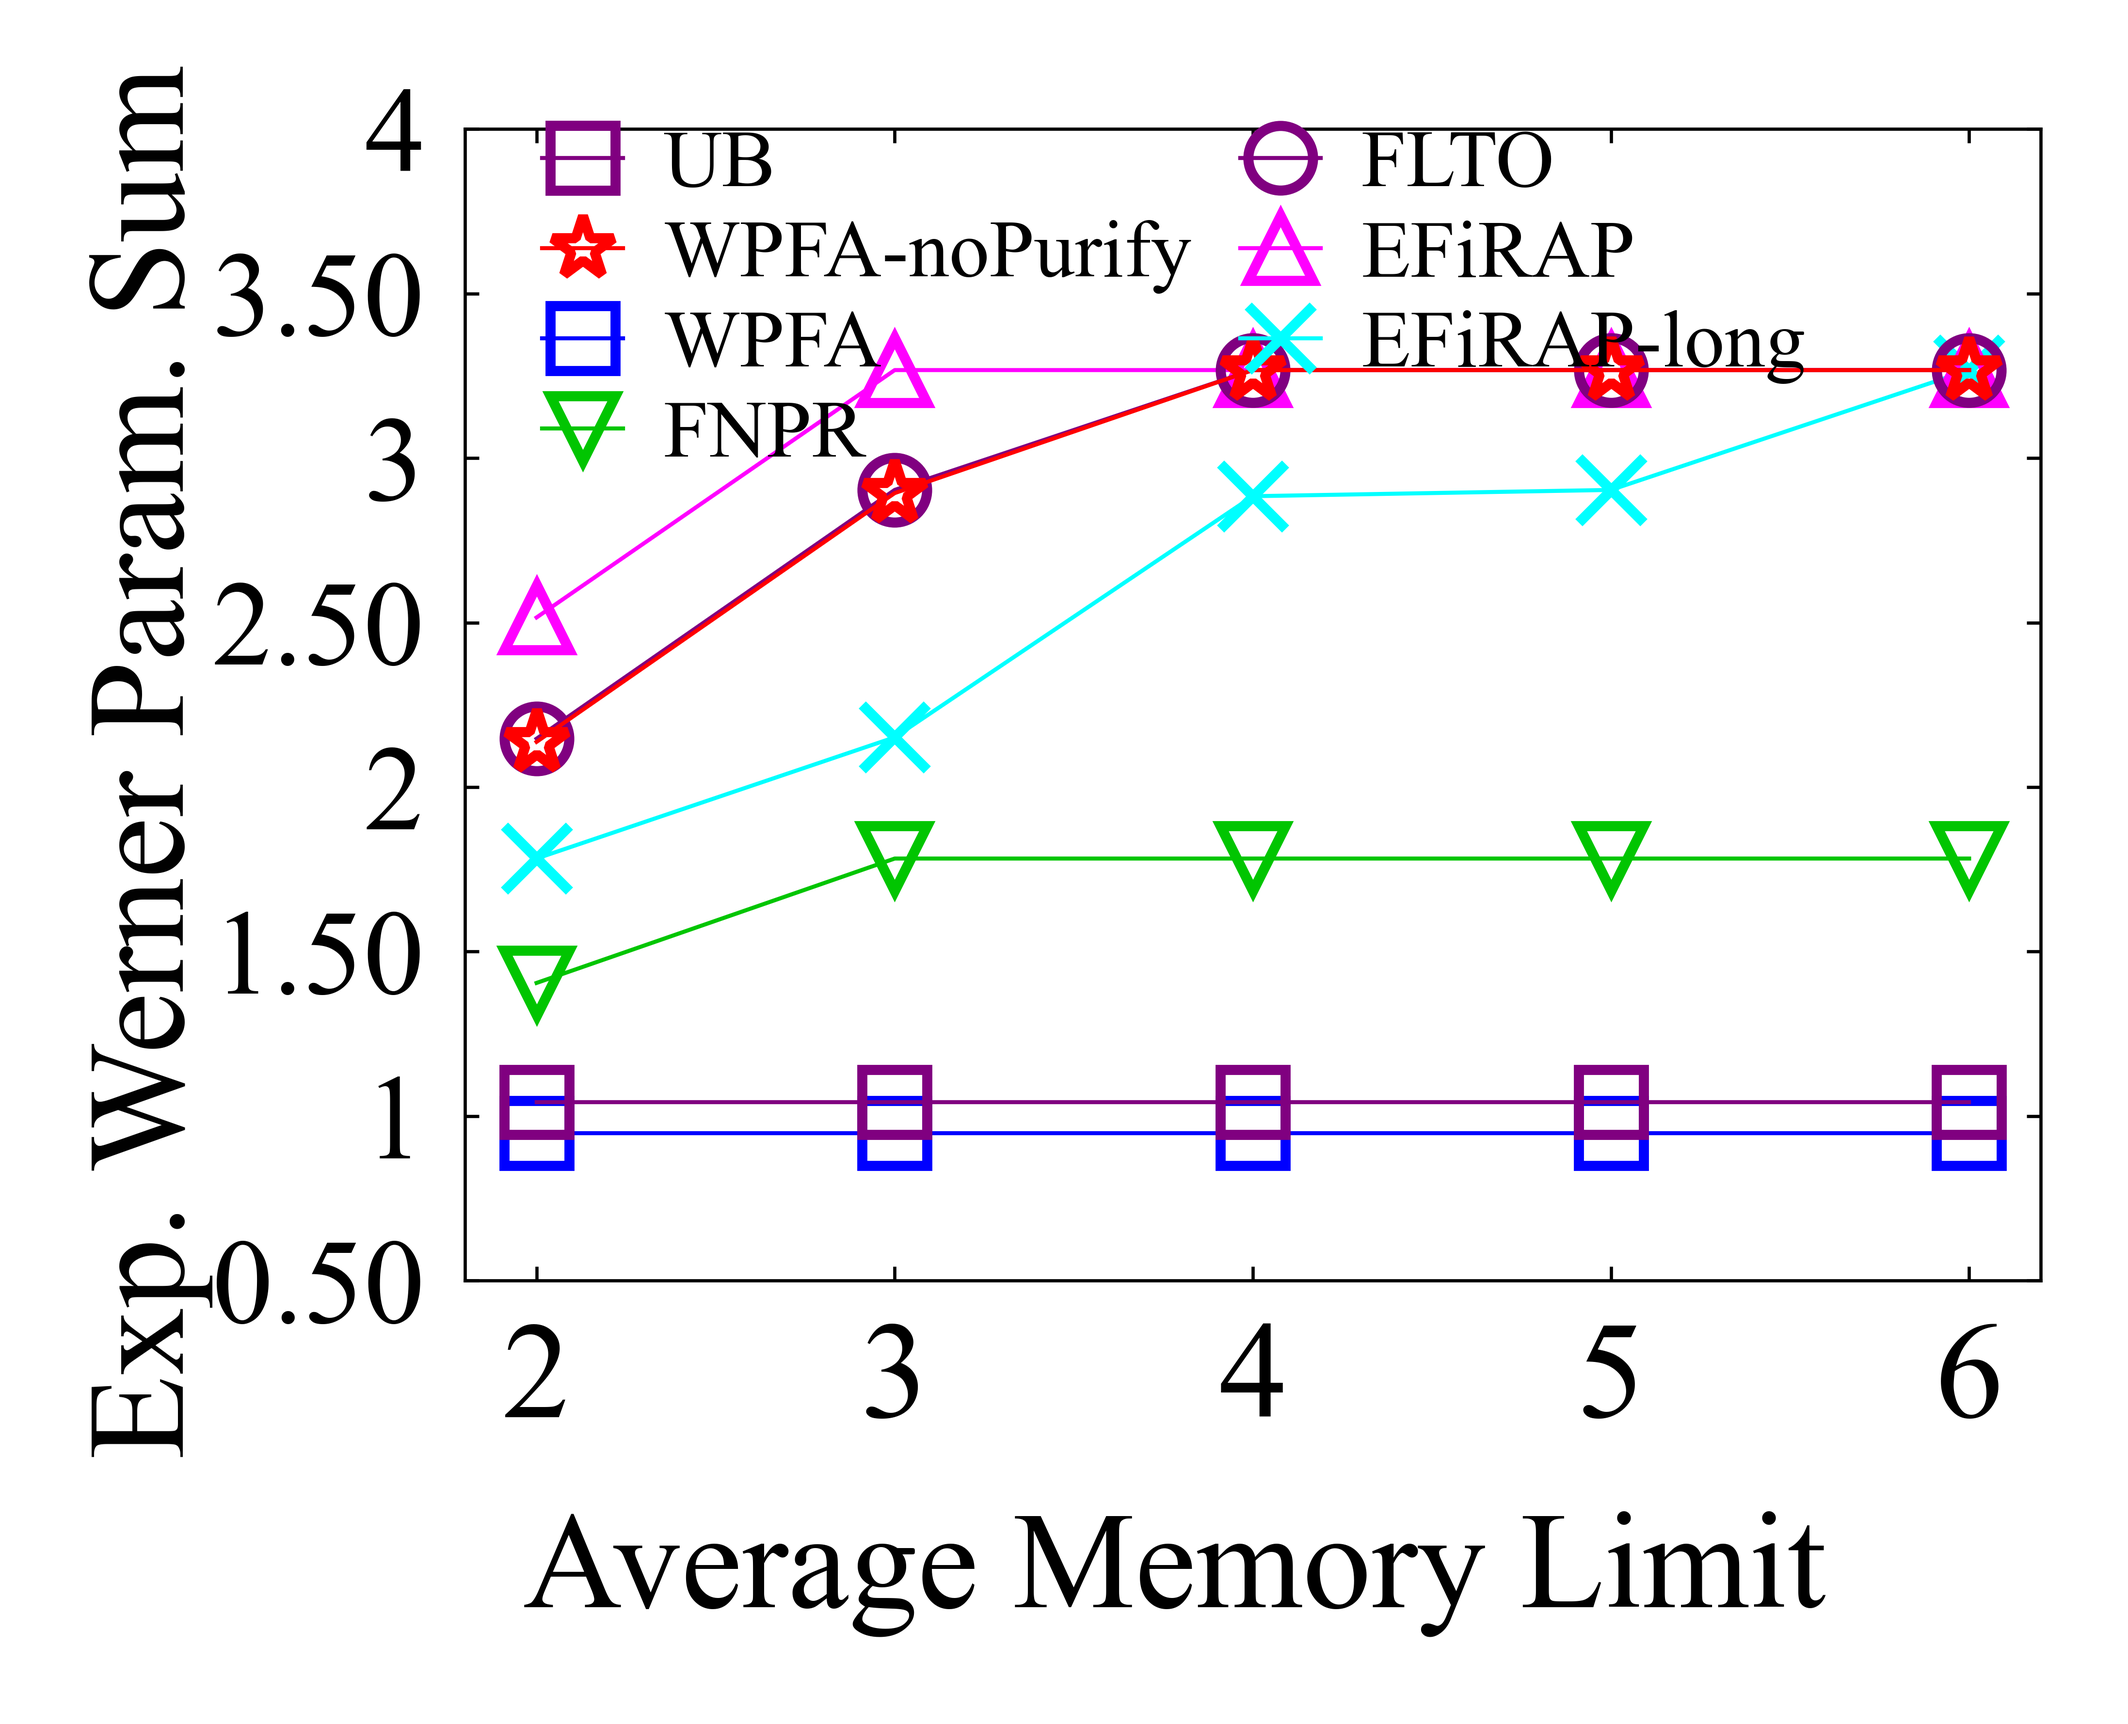
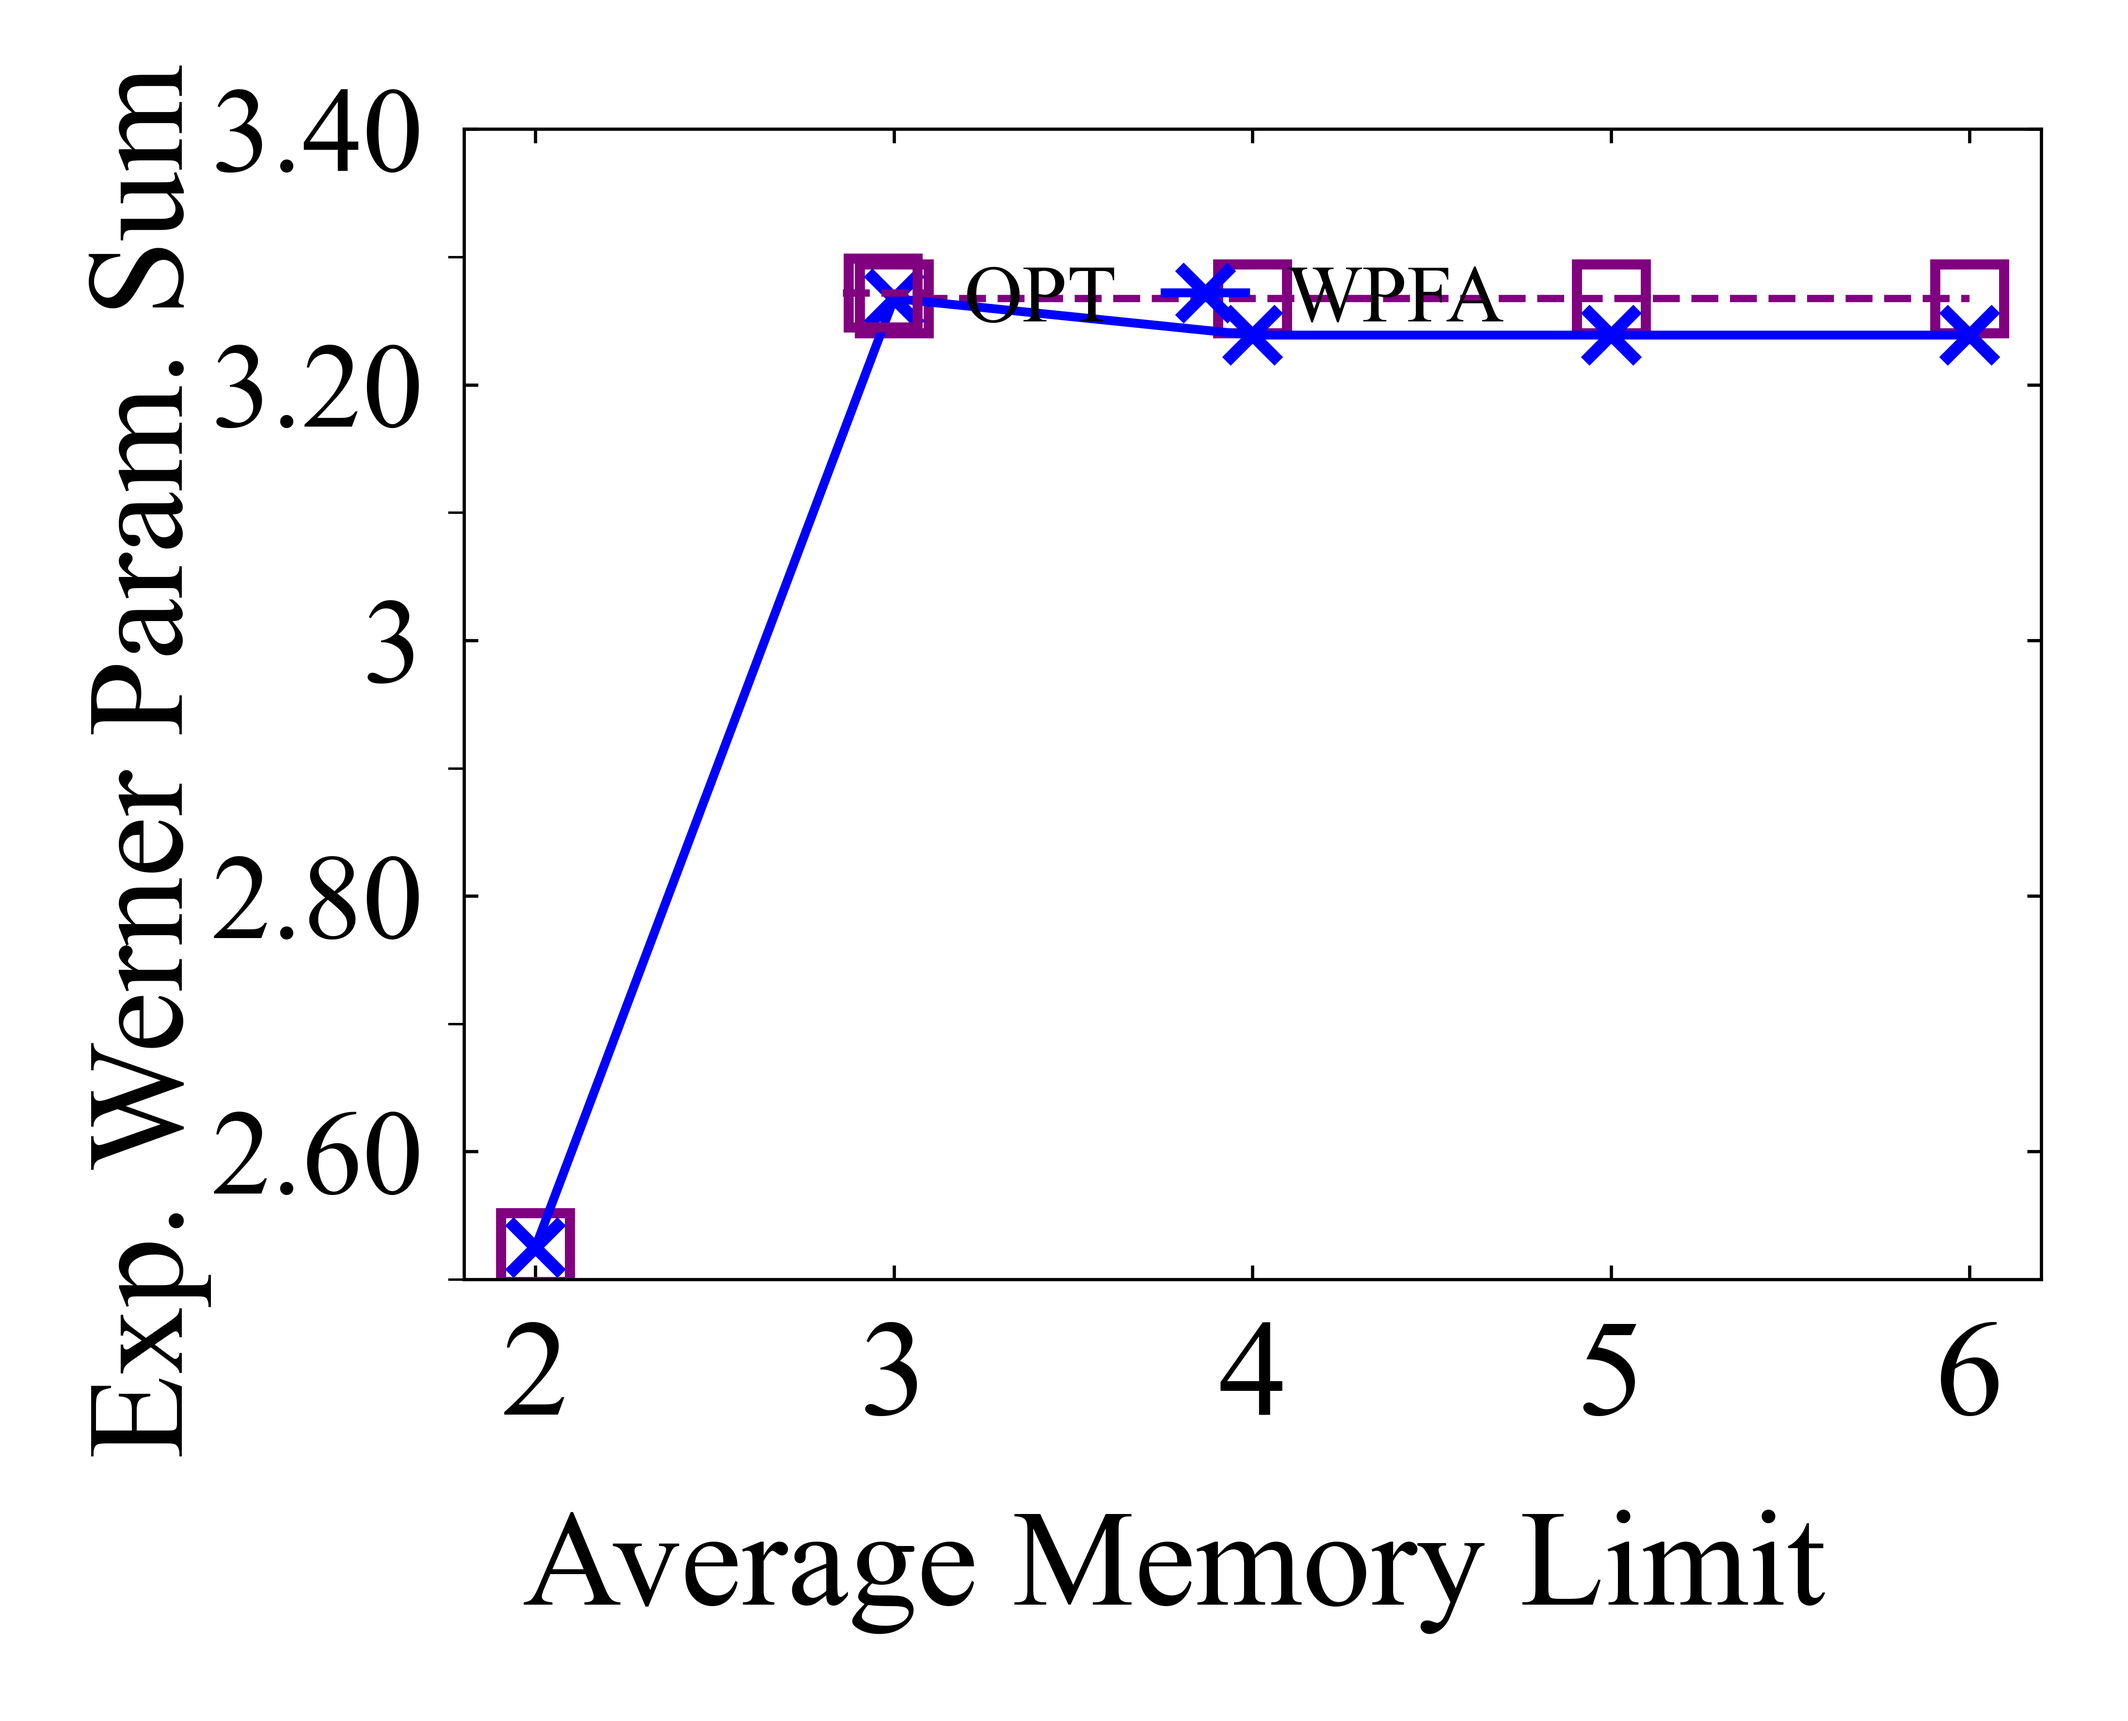
fix small_scale

diff --git a/src/main_smallscale.cpp b/src/main_smallscale.cpp
@@ -31,7 +31,8 @@ constexpr double MAIN_STYLE_WPFA_BUCKET_EPS = 0.001;
 constexpr size_t WPFA_SMALL_CANDIDATE_LIMIT = 3;
 constexpr size_t WPFA_SMALL_OBJECTIVE_CANDIDATES = 2;
 constexpr size_t WPFA_SMALL_SAFETY_CANDIDATE_LIMIT = 4;
-constexpr double WPFA_SMALL_MIN_SAFETY_RATIO = 0.97;
+constexpr size_t WPFA_SMALL_SKIPPED_TOP_CANDIDATES = 3;
+constexpr double WPFA_SMALL_MIN_SAFETY_RATIO = 0.92;
 
 const vector<string> SWEEP_NAMES = {
     "request_cnt",
@@ -313,16 +314,17 @@ public:
         Graph refinement_graph = graph;
         ExactResult refinement = brute_force_refinement(
             refinement_graph, WPFA_SMALL_CANDIDATE_LIMIT,
-            WPFA_SMALL_OBJECTIVE_CANDIDATES, true);
+            WPFA_SMALL_OBJECTIVE_CANDIDATES,
+            WPFA_SMALL_SKIPPED_TOP_CANDIDATES);
 
         // A second, still-bounded search is a quality guard for highly
         // congested cases. It is not the full OPT frontier and does not read
         // the OPT result. The weaker refinement is retained whenever it is
-        // within 3% of this internal reference.
+        // within 8% of this internal reference.
         Graph safety_graph = graph;
         ExactResult safety = brute_force_refinement(
             safety_graph, WPFA_SMALL_SAFETY_CANDIDATE_LIMIT,
-            WPFA_SMALL_SAFETY_CANDIDATE_LIMIT, false);
+            WPFA_SMALL_SAFETY_CANDIDATE_LIMIT, 0);
         if(refinement.objective + OBJECTIVE_TOLERANCE <
            WPFA_SMALL_MIN_SAFETY_RATIO * safety.objective) {
             refinement = std::move(safety);
@@ -363,16 +365,19 @@ private:
     static void restrict_frontier(CandidateSet& set,
                                   size_t candidate_limit,
                                   size_t objective_candidate_count,
-                                  bool skip_best_exact_candidate) {
+                                  size_t skipped_top_candidates) {
         if(set.candidates.size() <= candidate_limit) return;
 
         vector<size_t> selected;
         vector<unsigned char> used(set.candidates.size(), 0);
         // Do not hand the refinement the exact frontier's globally best
-        // schedule as privileged information. The original WPFA run remains
-        // eligible to contribute that schedule on its own.
-        const size_t objective_begin = skip_best_exact_candidate ? 1 : 0;
-        if(skip_best_exact_candidate) used.front() = 1;
+        // schedules as privileged information. The original WPFA run remains
+        // eligible to discover those schedules on its own.
+        const size_t objective_begin = min(
+            skipped_top_candidates, set.candidates.size() - 1);
+        for(size_t index = 0; index < objective_begin; ++index) {
+            used[index] = 1;
+        }
         const size_t objective_count = min(
             objective_candidate_count,
             set.candidates.size() - objective_begin);
@@ -422,7 +427,7 @@ private:
         Graph& search_graph,
         size_t candidate_limit,
         size_t objective_candidate_count,
-        bool skip_best_exact_candidate) const {
+        size_t skipped_top_candidates) const {
         map<SDpair, int> demand;
         for(const SDpair& request : requests) demand[request]++;
 
@@ -437,7 +442,7 @@ private:
             diagnostics.nondominated_candidates += set.candidates.size();
             restrict_frontier(
                 set, candidate_limit, objective_candidate_count,
-                skip_best_exact_candidate);
+                skipped_top_candidates);
 
             auto inserted = candidate_sets.emplace(
                 entry.first, std::move(set));
@@ -539,7 +544,8 @@ void write_results_header(ofstream& output) {
         << "time_limit,memory_per_node,min_link_fidelity,max_link_fidelity,"
         << "fidelity_threshold,tao,swap_probability,epsilon,"
         << "graph_bucket_eps,wpfa_bucket_eps,wpfa_candidate_limit,"
-        << "wpfa_safety_candidate_limit,wpfa_min_safety_ratio,"
+        << "wpfa_skipped_top_candidates,wpfa_safety_candidate_limit,"
+        << "wpfa_min_safety_ratio,"
         << "algorithm,implementation,display_order,proven_optimal,fidelity_gain,"
         << "optimality_gap_pct,actual_requests,expected_requests,runtime_ms,"
         << "candidate_paths,enumerated_schedules,feasible_schedules,"
@@ -566,6 +572,7 @@ void write_trial_rows(ofstream& output, const TrialResult& result) {
                << ','
                << MAIN_STYLE_WPFA_BUCKET_EPS << ','
                << WPFA_SMALL_CANDIDATE_LIMIT << ','
+               << WPFA_SMALL_SKIPPED_TOP_CANDIDATES << ','
                << WPFA_SMALL_SAFETY_CANDIDATE_LIMIT << ','
                << WPFA_SMALL_MIN_SAFETY_RATIO << ',';
     };

diff --git a/plot/ChartGenerator.py b/plot/ChartGenerator.py
@@ -277,9 +277,25 @@ class ChartGenerator:
             # main_smallscale writes exactly two columns in this order.
             self._ALGO_NAMES = ["OPT", "WPFA"]
             self._DRAW_ORDER = [0, 1]
-            self._MARKERS = ['s', 's']
+            # OPT and WPFA are often numerically identical on the tiny test
+            # cases.  A large hollow square below a blue cross keeps both
+            # series visible even when their coordinates coincide exactly.
+            self._MARKERS = ['s', 'x']
             self._COLORS = ["#800080", "#0000FF"]
             self._HATCHES = ['', '\\\\']
+            self._LINESTYLES = ['--', '-']
+            self._LINEWIDTHS = [1.8, 2.2]
+            self._MARKER_SIZES = [17, 13]
+            self._MARKER_EDGE_WIDTHS = [2.5, 3.0]
+            self._PLOT_ZORDERS = [2, 4]
+        else:
+            self._LINESTYLES = ['-'] * len(self._ALGO_NAMES)
+            self._LINEWIDTHS = [1.0] * len(self._ALGO_NAMES)
+            self._MARKER_SIZES = [16] * len(self._ALGO_NAMES)
+            self._MARKER_EDGE_WIDTHS = [2.5] * len(self._ALGO_NAMES)
+            self._PLOT_ZORDERS = [
+                -index for index in range(len(self._ALGO_NAMES))
+            ]
 
         with open(path, 'r', encoding='utf-8') as f:
             raw_lines = f.readlines()
@@ -457,9 +473,13 @@ class ChartGenerator:
             else:
                 ax1.plot(
                     x_positions, y[i],
-                    color=self._COLORS[i], lw=1, ls="-",
-                    marker=self._MARKERS[i], markersize=16,
-                    markerfacecolor='None', markeredgewidth=2.5, zorder=-draw_idx
+                    color=self._COLORS[i],
+                    lw=self._LINEWIDTHS[i], ls=self._LINESTYLES[i],
+                    marker=self._MARKERS[i],
+                    markersize=self._MARKER_SIZES[i],
+                    markerfacecolor='None',
+                    markeredgewidth=self._MARKER_EDGE_WIDTHS[i],
+                    zorder=self._PLOT_ZORDERS[i],
                 )
             plotted.append(i)
 
